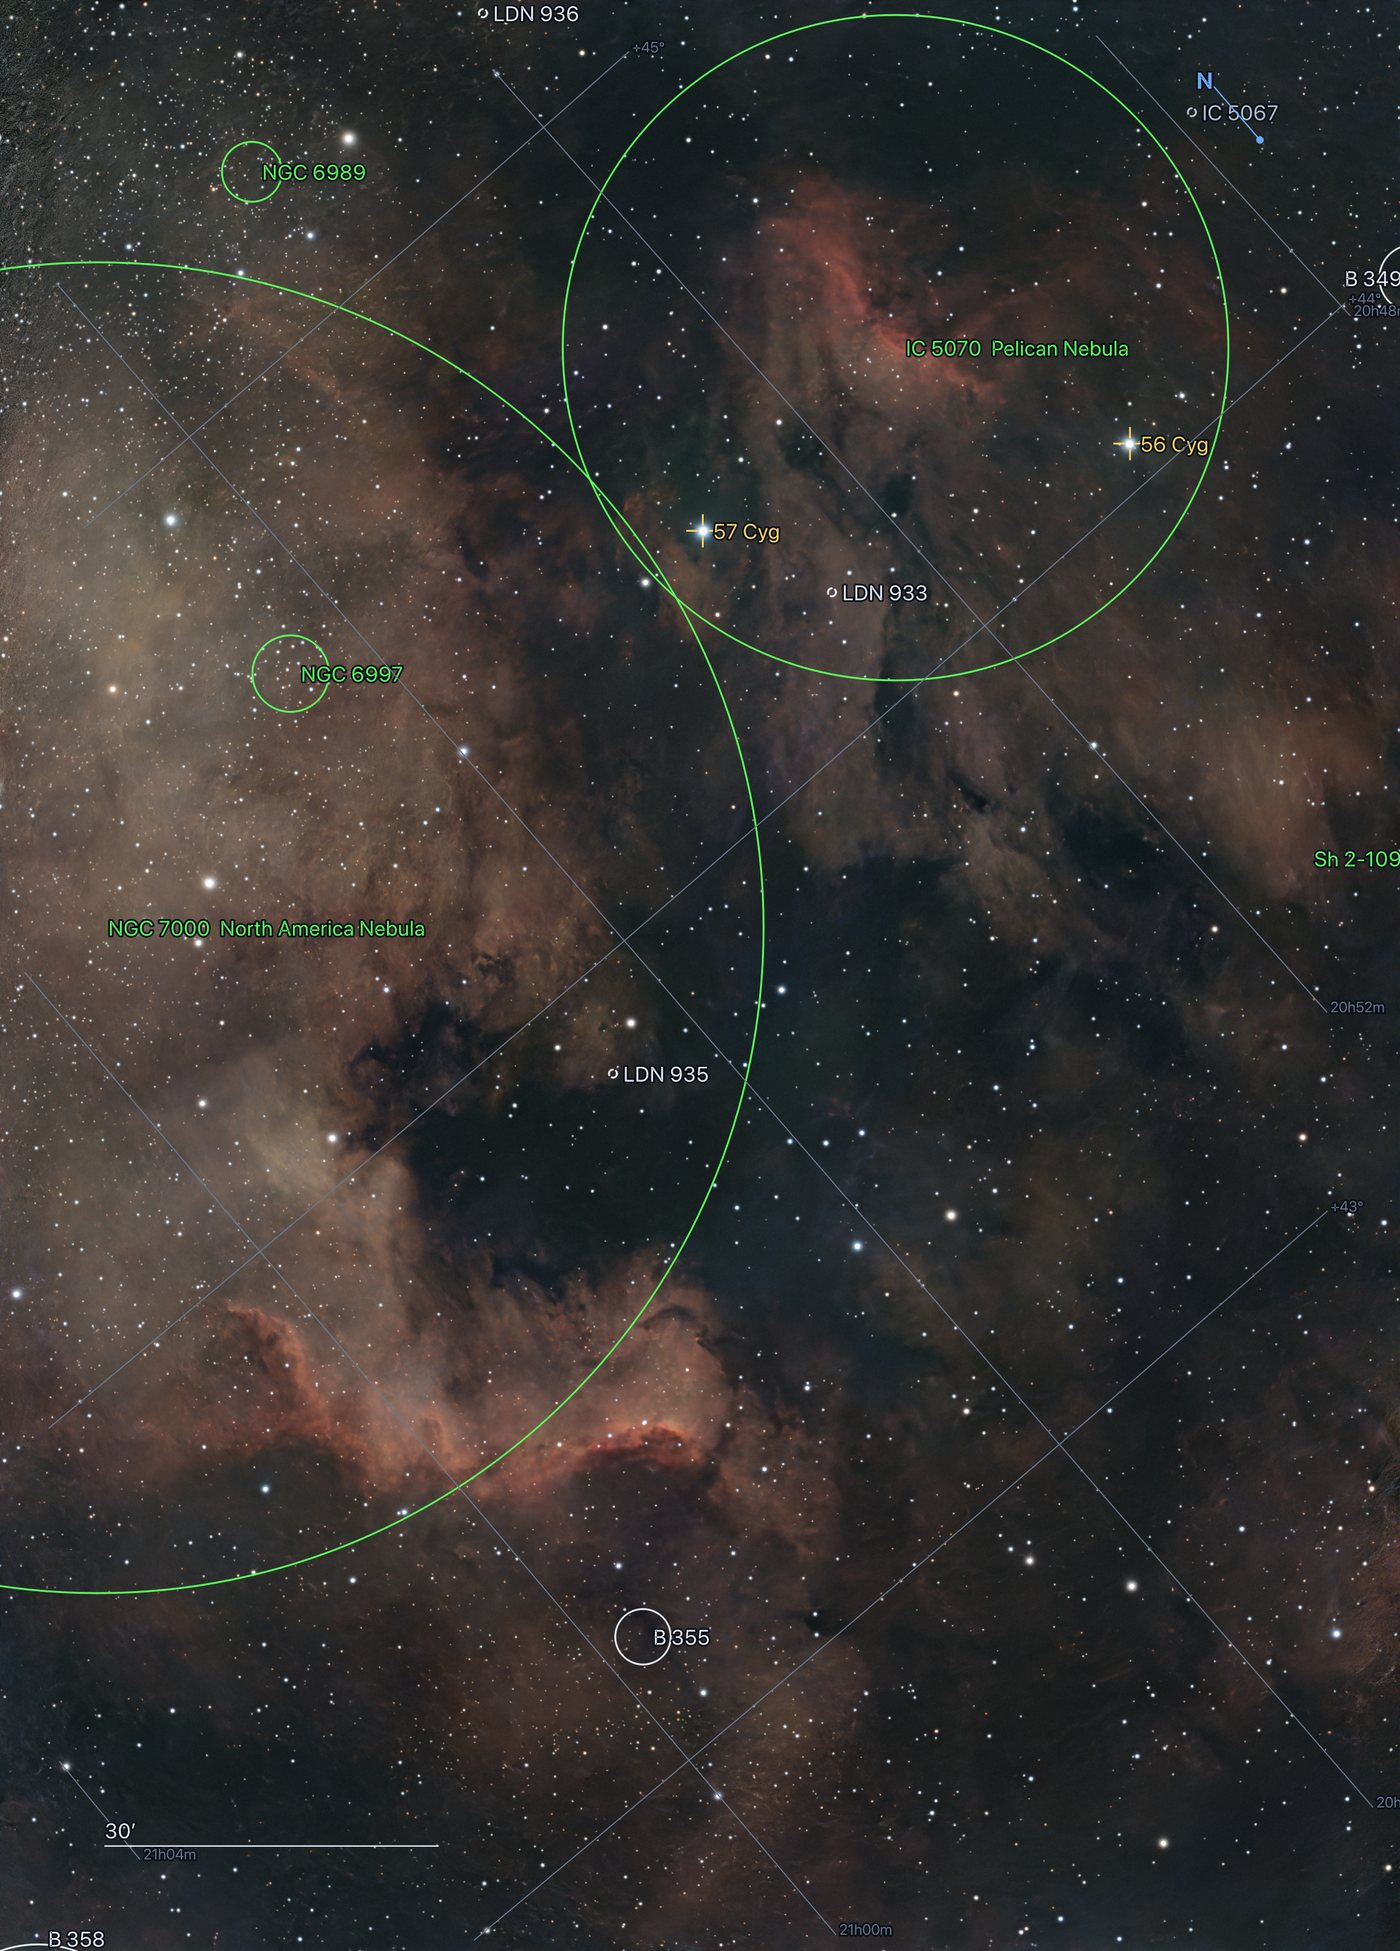
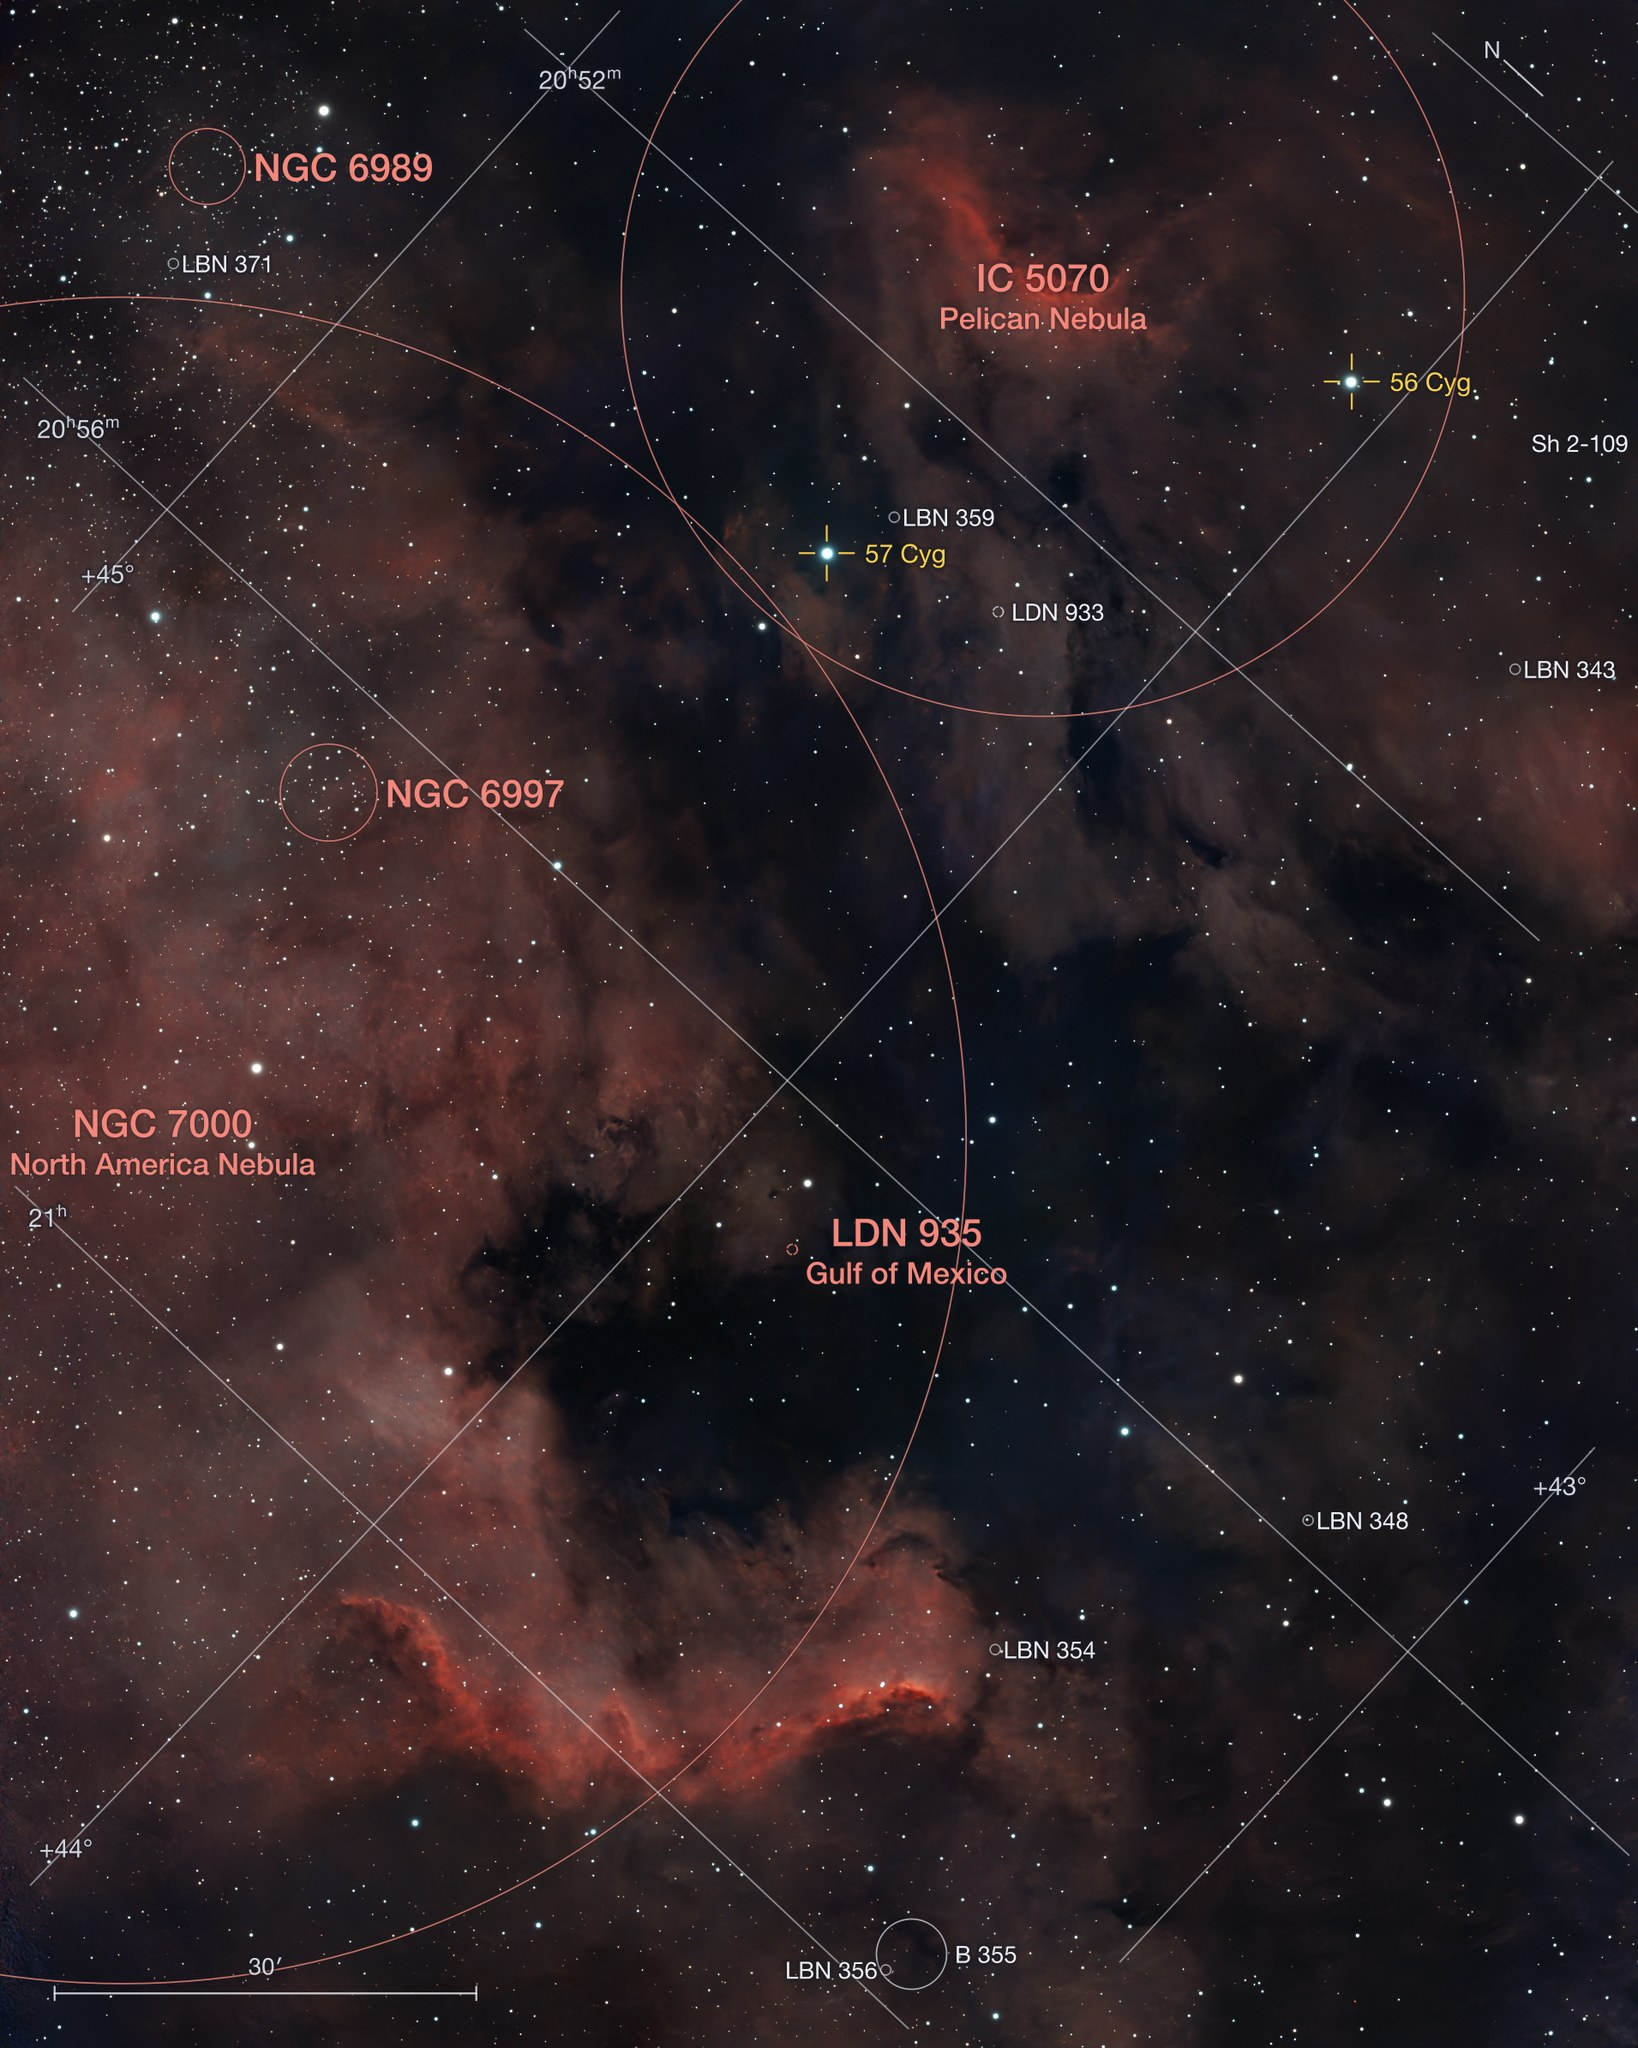
docs(readme): the plate-solve picture is the new annotated NGC 7000 export
Same path, so the README keeps its reference; 1638x2048, 458 KB (was
1400x1951, 380 KB). The alt text now names the Pelican, the catalogue
labels and the 30' scale bar the new picture shows.

Claude-Session: https://claude.ai/code/session_016f9znrPMNaAAEJj5xVoxCE

diff --git a/README.md b/README.md
@@ -30,7 +30,7 @@ It's beginner-friendly: it *explains* what each step does and teaches the concep
   <em>The guided flow — every step explained, with live stack &amp; sensor details.</em>
 </p>
 <p align="center">
-  <img src="docs/img/shot-platesolve.jpg" alt="Plate-solved NGC 7000 with object circles drawn at their true size on the sky, named stars, an RA/Dec grid, a compass and a scale bar" width="90%"><br>
+  <img src="docs/img/shot-platesolve.jpg" alt="Plate-solved NGC 7000 and the Pelican Nebula, with object circles drawn at their true size on the sky, catalogue labels, named stars, an RA/Dec grid, a compass and a 30 arcminute scale bar" width="90%"><br>
   <em>Plate Solve &amp; Annotate — identify the target and overlay objects at their true size, named stars, an RA/Dec grid, a compass and a scale bar.</em>
 </p>
 <p align="center">
